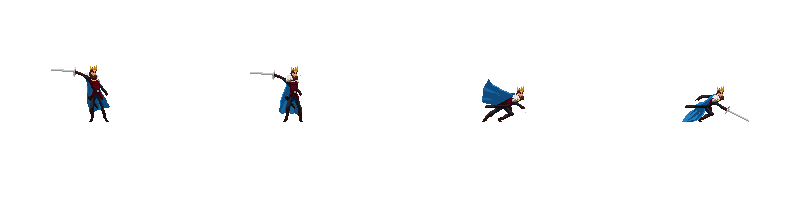
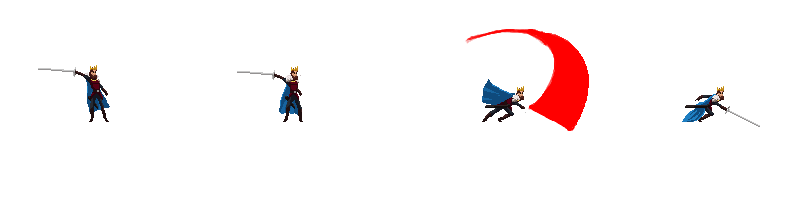
fixed kinga attacks, and frames for ghost

Changed region(s): [[0.5625, 0.12, 0.75, 0.66], [0.9375, 0.6, 0.9688, 0.63], [0.0312, 0.33, 0.0625, 0.36]]

diff --git a/index.js b/index.js
@@ -136,19 +136,15 @@ const enemy = new Fighter({
     },
     attack1: {
       imageSrc: './img/ghost/Attack1.png',
-      framesMax: 6,
+      framesMax: 4,
     },
     attack2: {
       imageSrc: './img/ghost/Attack2.png',
-      framesMax: 6,
+      framesMax: 4,
     },
     attack3: {
       imageSrc: './img/ghost/Attack3.png',
       framesMax: 6,
-    },
-    attack3: {
-      imageSrc: './img/kenji/Attack2.png',
-      framesMax: 4,
     },
     takeHit: {
       imageSrc: './img/ghost/Take Hit.png',
